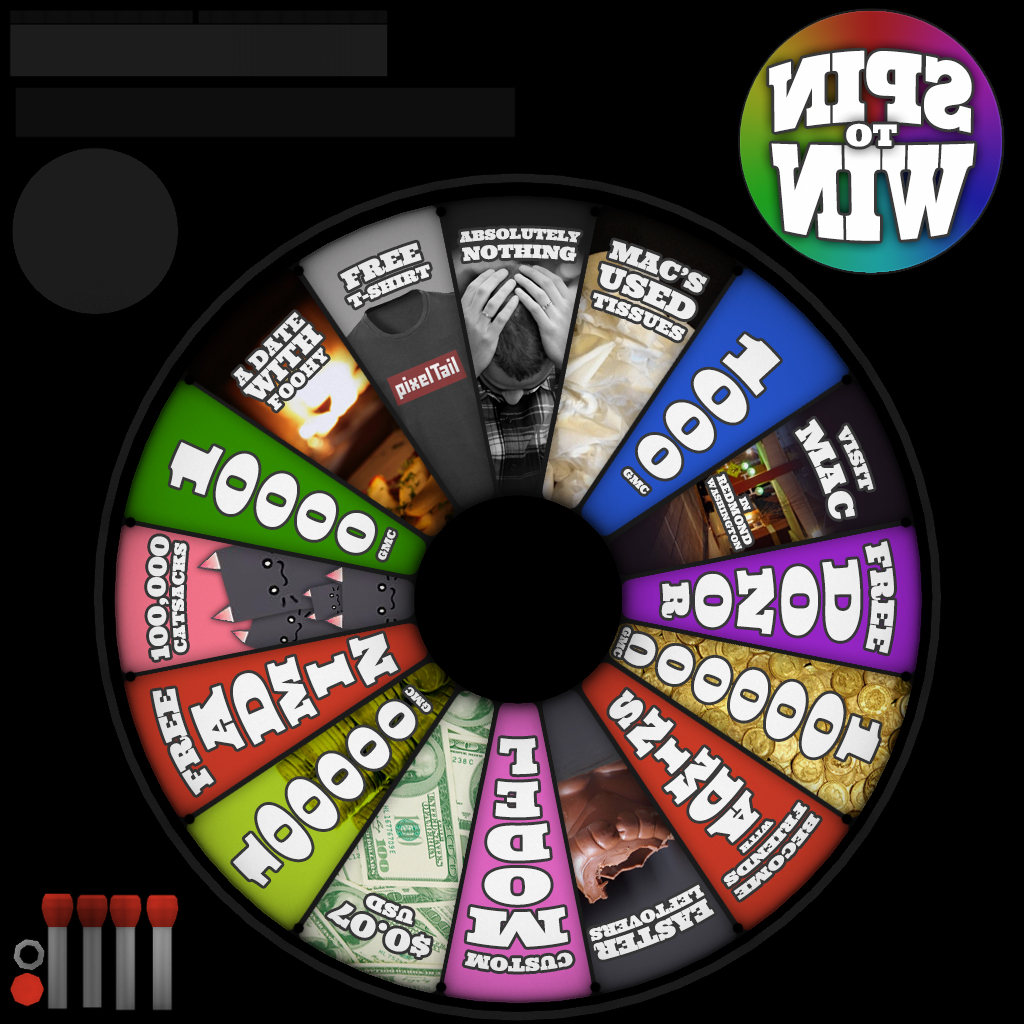
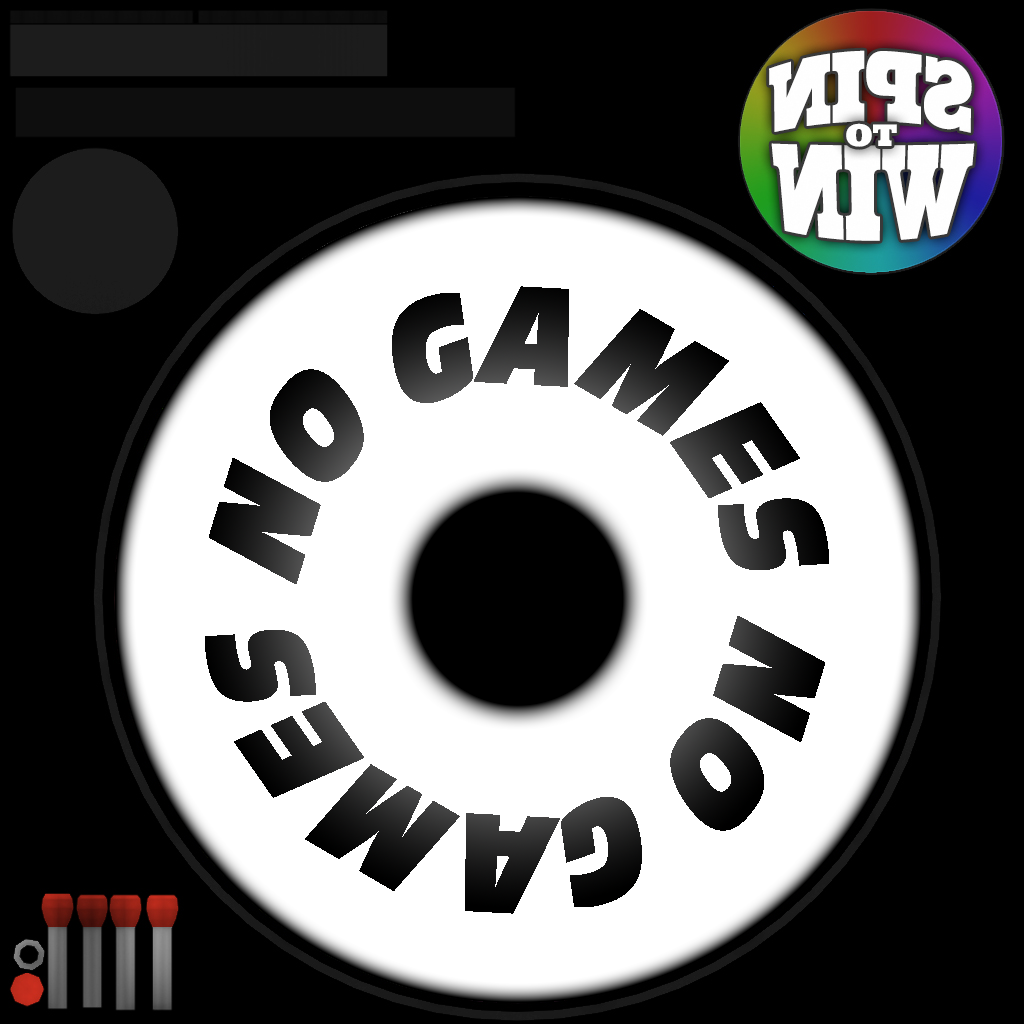
Made having no games more apparent.

diff --git a/WheelOfSteamGames/Entity/ent_spinner.cs b/WheelOfSteamGames/Entity/ent_spinner.cs
@@ -154,7 +154,7 @@ namespace WheelOfSteamGames.Entity
             System.Drawing.Bitmap underlay = new System.Drawing.Bitmap("Resources/Materials/models/spinner_wheel.png");
             underlay = ResizeImage(underlay, underlay.Width * TextureScale, underlay.Height * TextureScale);
 
-            if (underlay != null)
+            if (underlay != null && games.Count > 0)
             {
                 System.Drawing.Graphics gU = System.Drawing.Graphics.FromImage(underlay);
                 gU.CompositingMode = System.Drawing.Drawing2D.CompositingMode.SourceOver;
@@ -207,17 +207,22 @@ namespace WheelOfSteamGames.Entity
             return ((float)Math.Cos(angle / (this.Games.Count / 4)) * 10) / Utilities.F_RAD2DEG;
         }
 
+        public SteamCommunity.Game GetCurrentGame( int CurRegion )
+        {
+            return CurRegion > -1 ? Games[CurRegion] : SteamCommunity.Game.Default;
+        }
+
         public override void Think()
         {
             Wheel.Position = this.Position;
             Wheel.Angles = this.Angles + new Angle(this.CurrentAngle * Utilities.F_RAD2DEG, 0, 0);
 
-            if (Games == null || Games.Count <= 0) return;
+            if (Games == null) return;
 
             Paddle.Position = this.Position + PaddlePositionOffset;
             Paddle.Angles = new Angle(this.Angles.Pitch + GetPaddleTurn(this.CurrentAngle), this.Angles.Yaw, this.Angles.Roll);
             int CurrentRegion = GetRegionFromAngle(CurrentAngle);
-
+            SteamCommunity.Game CurrentGame = GetCurrentGame(CurrentRegion);
             //Spin if neccessary
             if (Utilities.Time < SpeedTime + SpeedupTime)
             {
@@ -232,7 +237,7 @@ namespace WheelOfSteamGames.Entity
                 CurrentSpeed = 0;
                 IsSpinning = false;
 
-                OnStopSpinning(Games[CurrentRegion]);
+                OnStopSpinning(CurrentGame);
             }
 
 
@@ -243,7 +248,7 @@ namespace WheelOfSteamGames.Entity
             }
 
             CurrentAngle += CurrentSpeed;
-            CurrentGameText.SetText(Games[CurrentRegion].Name);
+            CurrentGameText.SetText(CurrentGame.AppID != -1 ? CurrentGame.Name : "No game");
         }
 
         public double NormalizeAngle(double angle)
@@ -254,6 +259,8 @@ namespace WheelOfSteamGames.Entity
 
         public int GetRegionFromAngle(float angle)
         {
+            if (Games.Count <= 0) return -1;
+
             angle = (float)NormalizeAngle(angle + Math.PI*2 - (ElementSizeRadians /2f));
             float percent = angle / (float)(Math.PI * 2);
             int region = (int)Math.Ceiling((percent * Games.Count));

diff --git a/WheelOfSteamGames/MainRoom.cs b/WheelOfSteamGames/MainRoom.cs
@@ -349,8 +349,15 @@ namespace WheelOfSteamGames
             {
                 if (e.Key == OpenTK.Input.Key.Space && !Spinner.IsSpinning)
                 {
-                    Spinner.Spin(0.095f);
-                    Actor.SetTransitionAnimation("announcer_player_to_wheel", "announcer_idle_wheel");
+                    if (Spinner.Games.Count > 0)
+                    {
+                        Spinner.Spin(0.095f);
+                        Actor.SetTransitionAnimation("announcer_player_to_wheel", "announcer_idle_wheel");
+                    }
+                    else
+                    {
+                        Actor.SayLine("Woah there tiger, you don't have any games on the board!");
+                    }
                     HintManager.RemoveHintNice("spin_controls_hint");
                 }
 

diff --git a/WheelOfSteamGames/SteamCommunity.cs b/WheelOfSteamGames/SteamCommunity.cs
@@ -29,6 +29,12 @@ namespace WheelOfSteamGames
             public bool HasAchievements;
             public bool HasLevelEditor;
             public bool HasHDR;
+
+            public static Game Default = new Game()
+            {
+                AppID = -1,
+                Name = "NO GAME",
+            };
         }
 
         /// <summary>

diff --git a/WheelOfSteamGames/Entity/act_announcer.cs b/WheelOfSteamGames/Entity/act_announcer.cs
@@ -159,7 +159,7 @@ namespace WheelOfSteamGames.Entity
 
         
 
-        private void SayLine(string str)
+        public void SayLine(string str)
         {
             this.curString = str;
 
